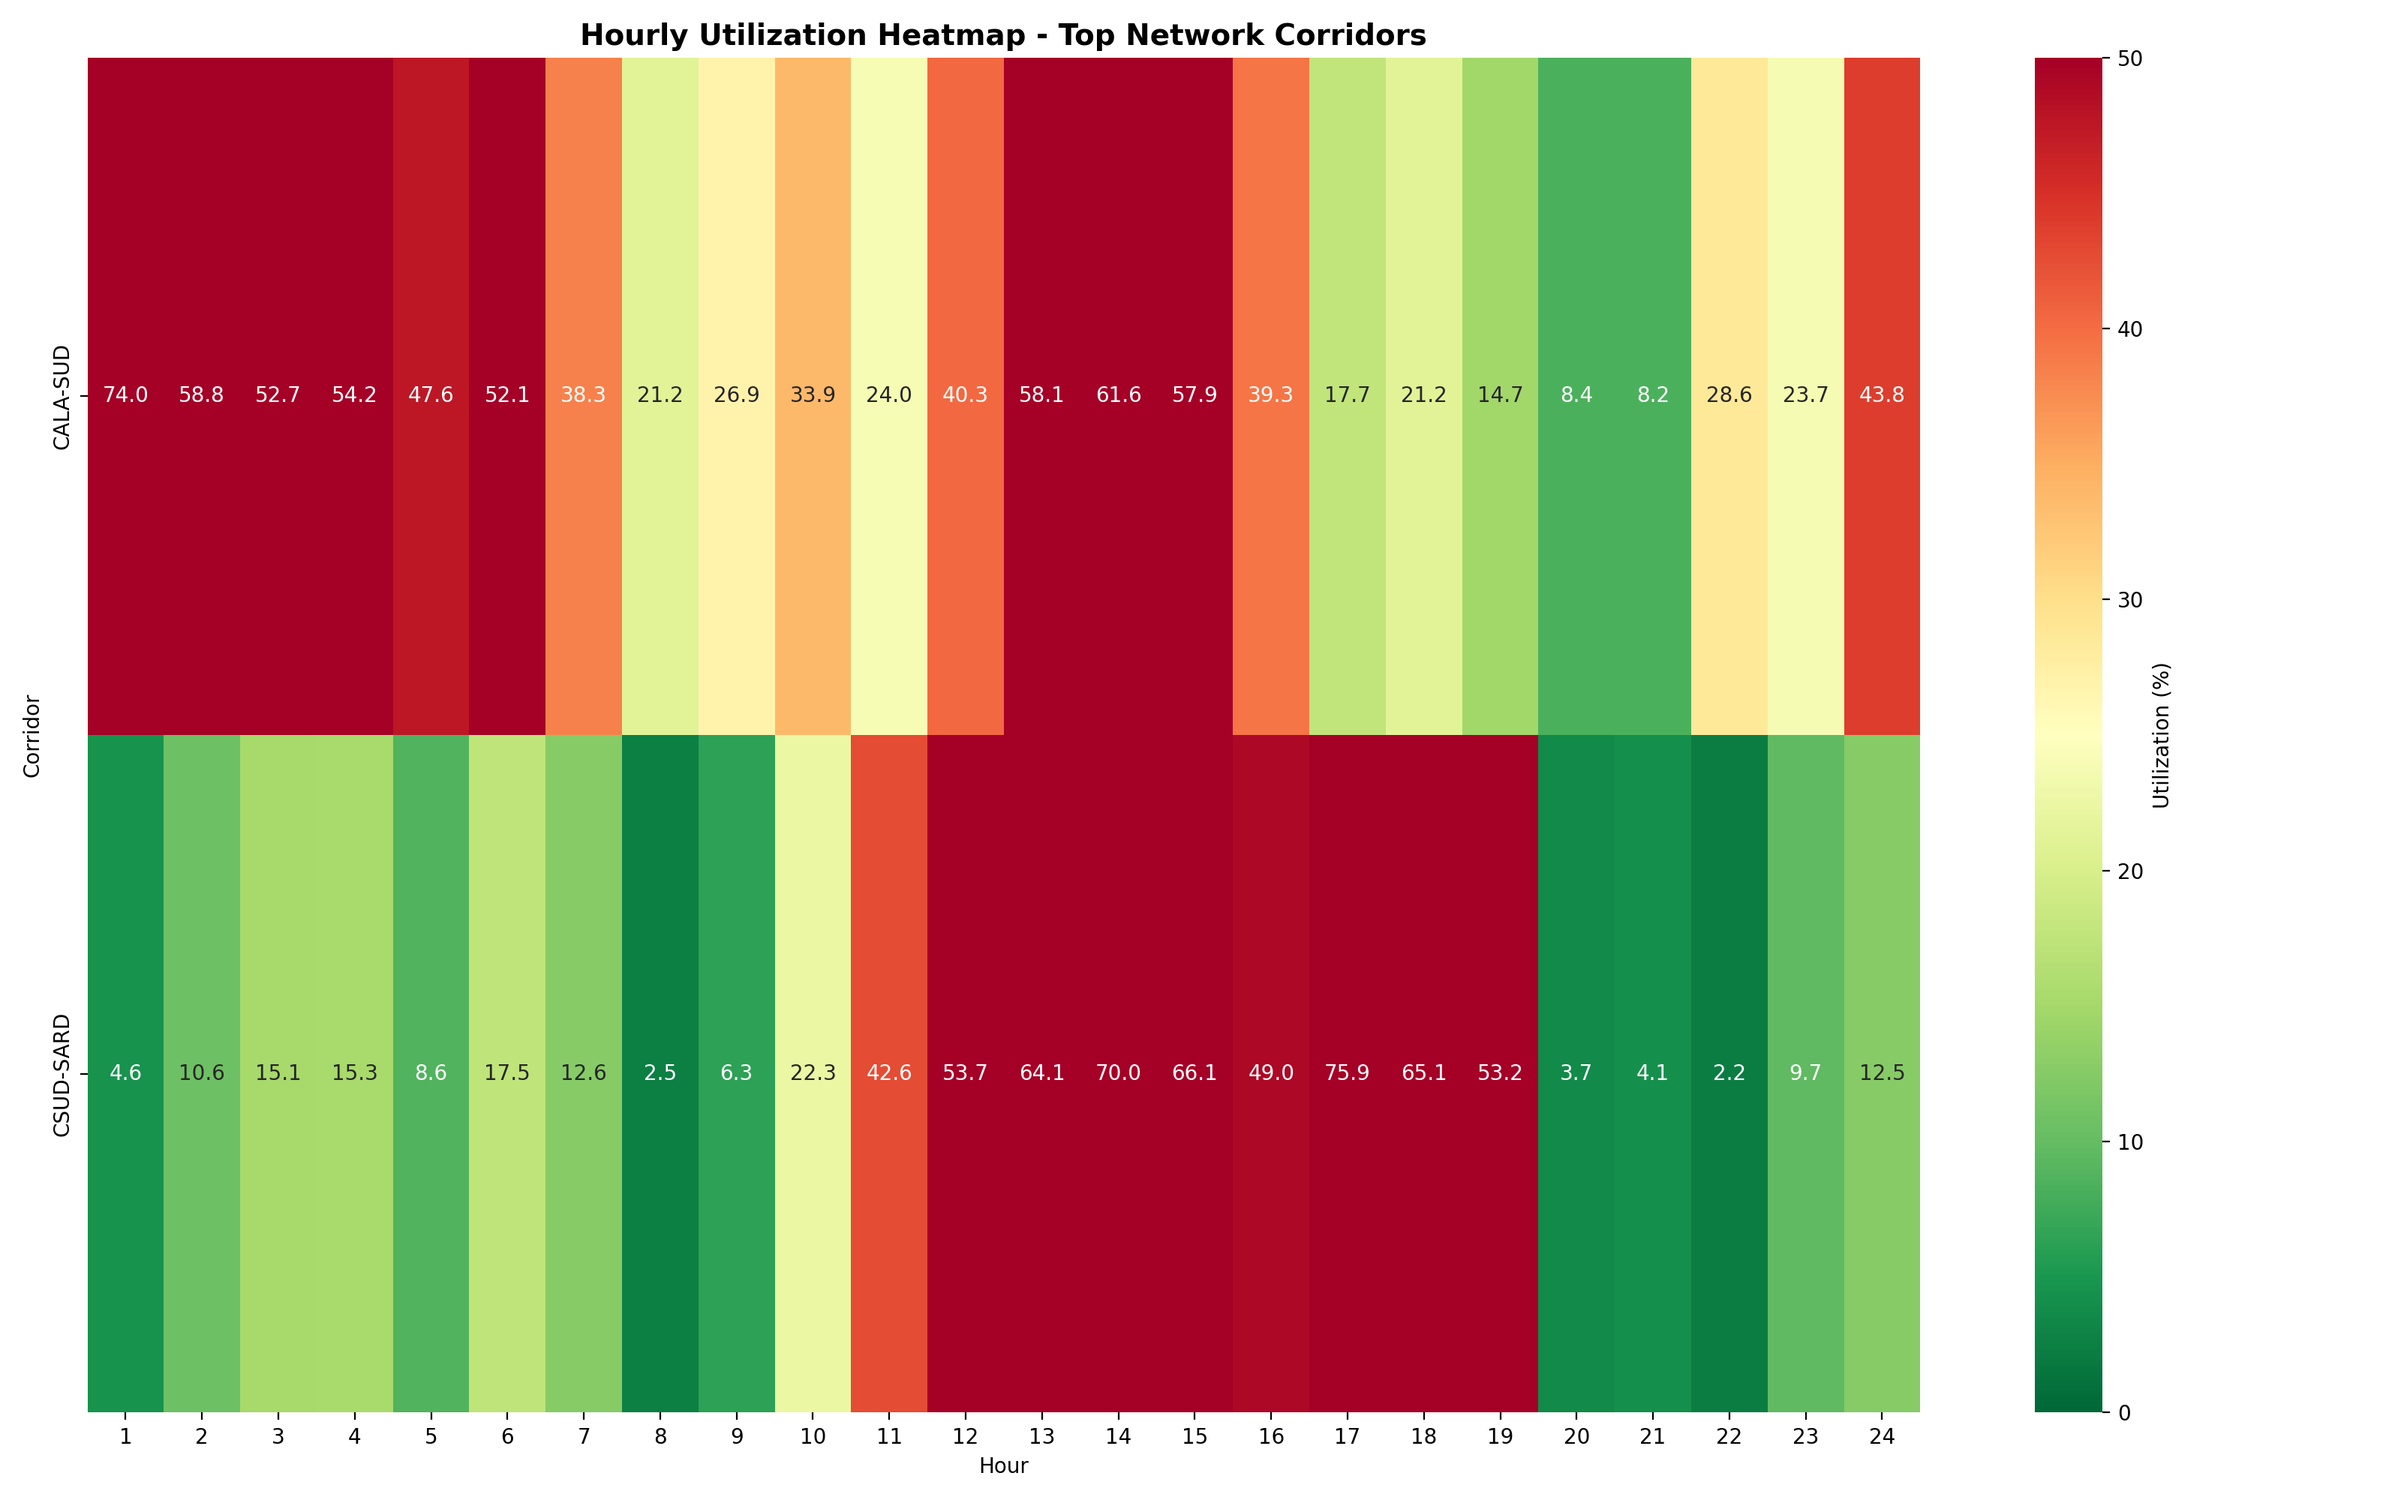
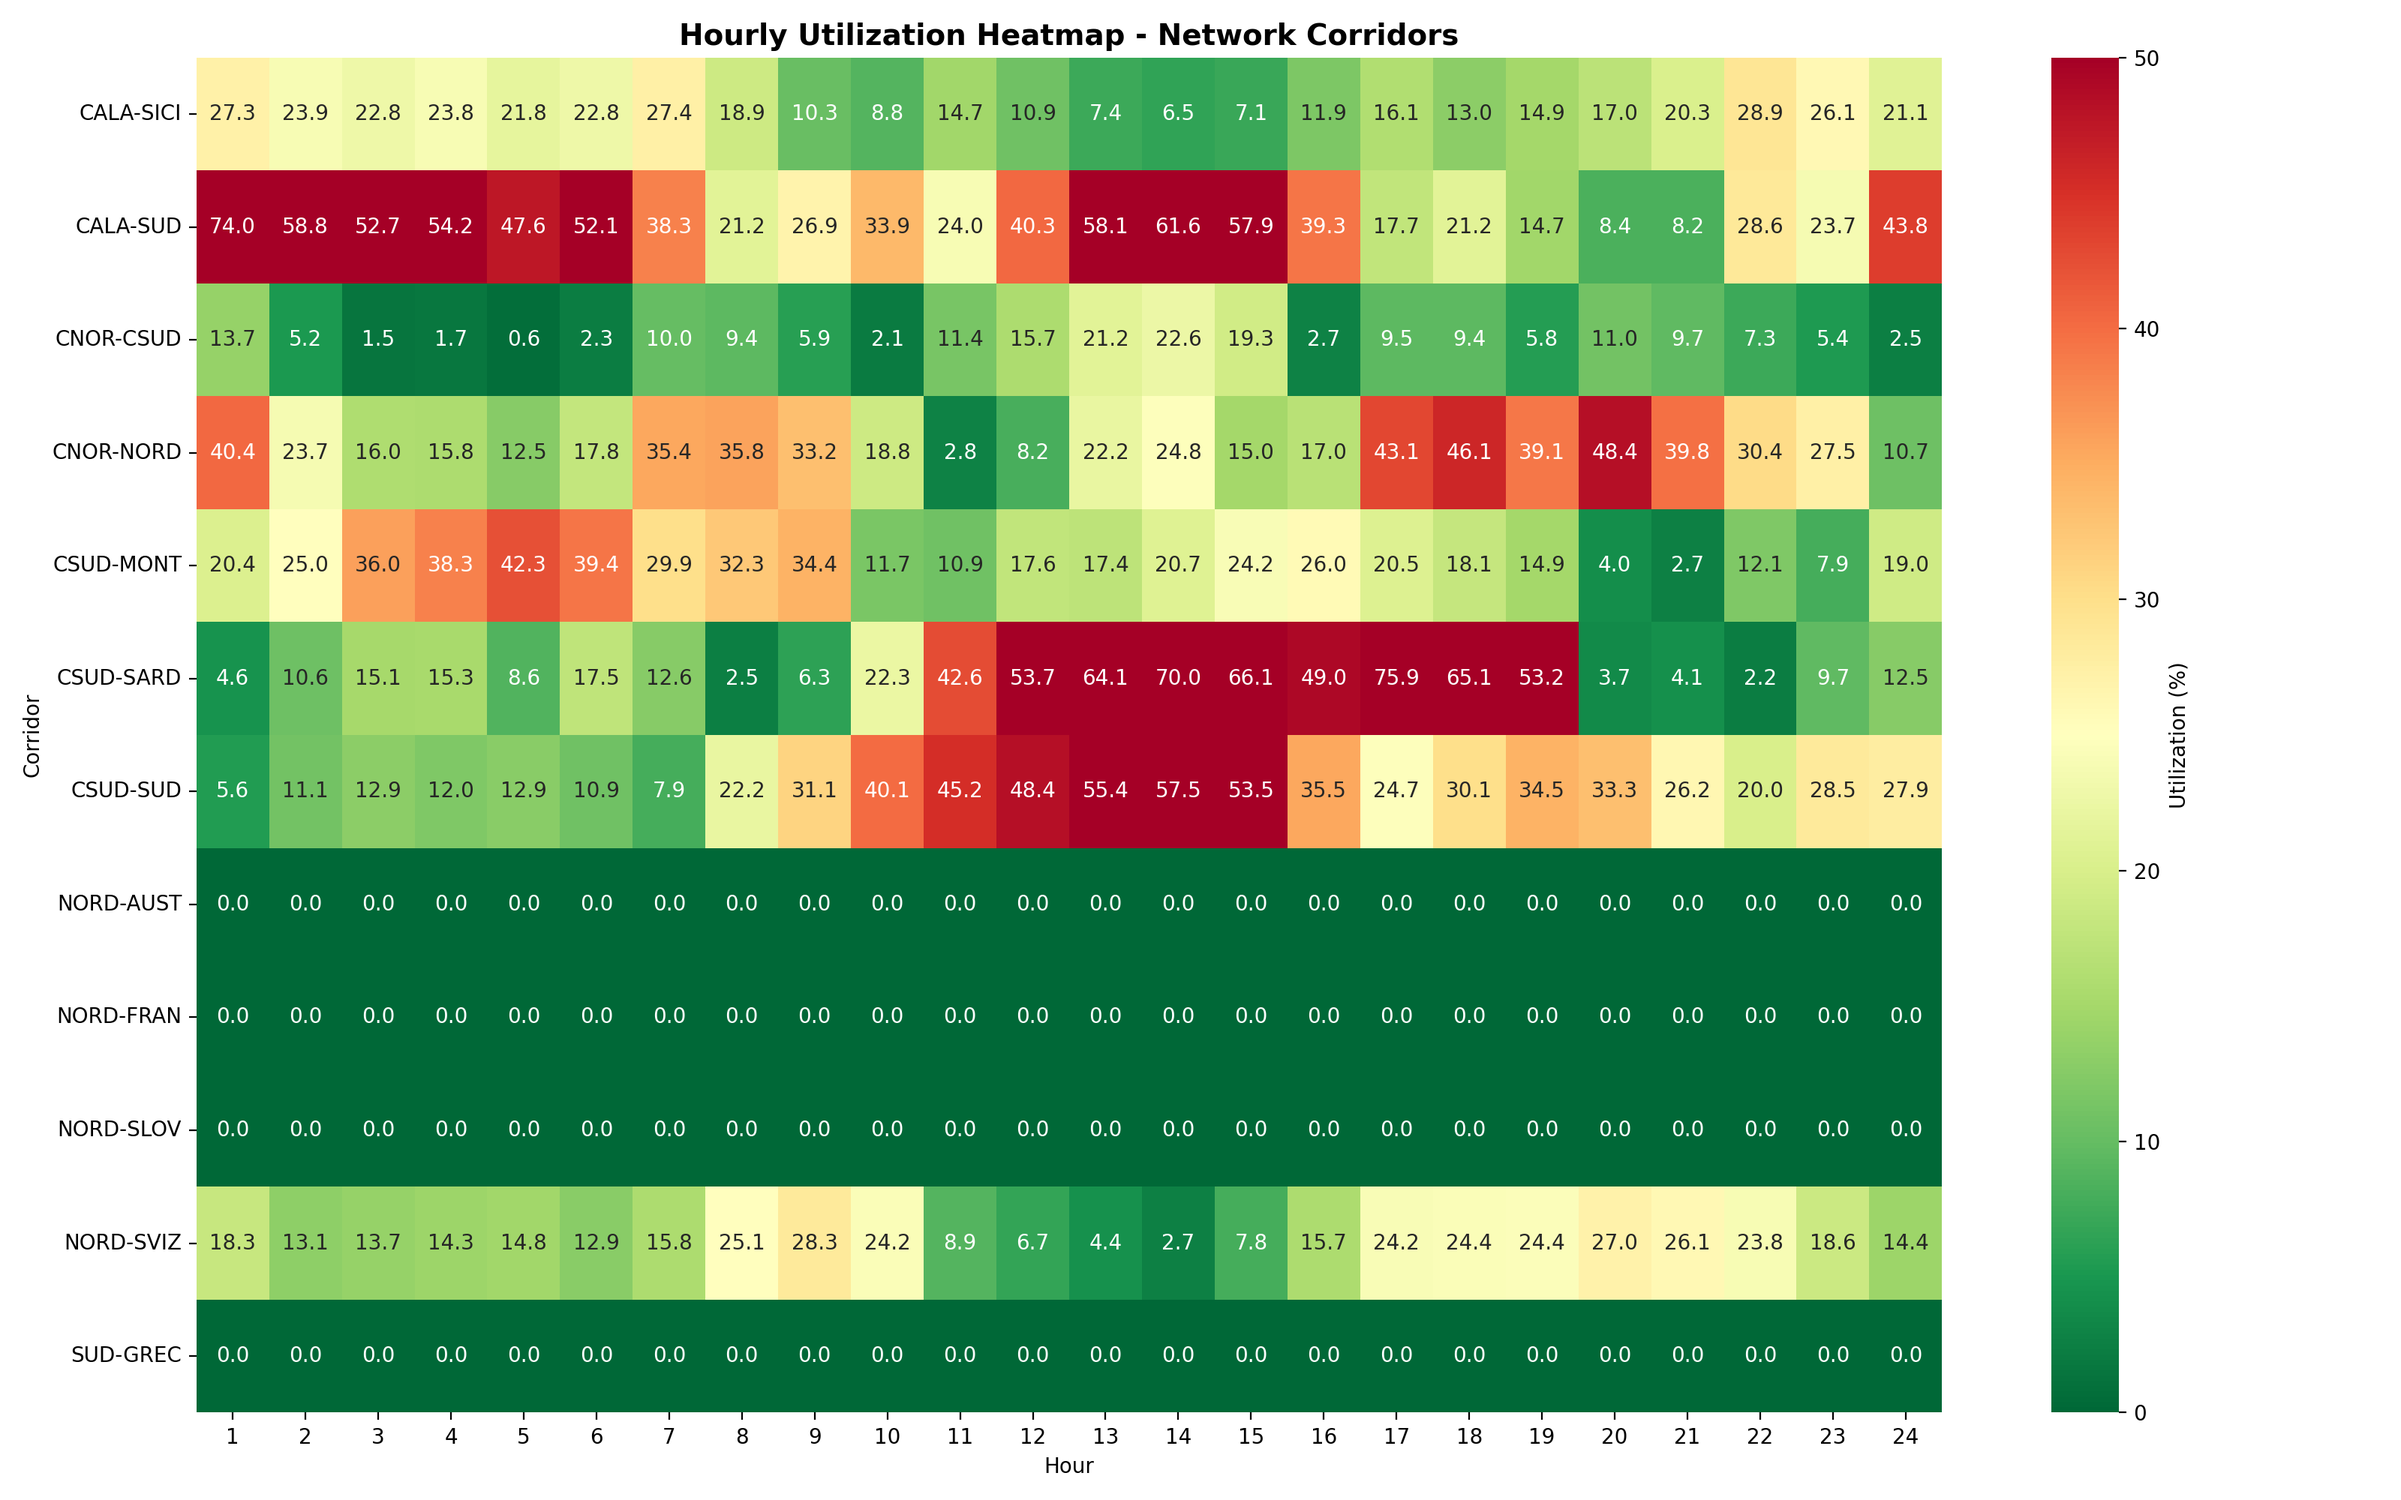
Fix: Analyze only network corridors, not external borders
Key findings:
- Morning peak: CNOR-NORD 31%, CALA-SUD 30%, CSUD-SUD 25%
- Midday peak: CSUD-SARD 49%, CALA-SUD 42%, CSUD-SUD 32%
- South->North flows increase during solar peak
- All visualizations now show network corridors only

diff --git a/analyze_congestion.py b/analyze_congestion.py
@@ -56,23 +56,35 @@ def analyze_congestion(flow_csv, price_csv, output_dir='analysis'):
     
     Path(output_dir).mkdir(exist_ok=True)
     
-    # Analysis 1: Top congested corridors
-    print("\n1. TOP CONGESTED CORRIDORS (Average Utilization)")
-    avg_util = flows_df.groupby('corridor')['utilization'].mean().sort_values(ascending=False).head(10)
+    # Filter to ONLY network corridors (exclude external borders)
+    network_corridors = set()
+    for idx, row in network.lines.iterrows():
+        network_corridors.add(f"{row.bus0}-{row.bus1}")
+        network_corridors.add(f"{row.bus1}-{row.bus0}")  # bidirectional
+    
+    # Filter flows to network corridors only
+    network_flows = flows_df[flows_df['corridor'].isin(network_corridors)].copy()
+    
+    print(f"\nFiltered to {len(network_corridors)} network corridors:")
+    print(f"  Total flow records: {len(flows_df)} → {len(network_flows)} (network only)")
+    
+    # Analysis 1: Top congested NETWORK corridors
+    print("\n1. TOP CONGESTED NETWORK CORRIDORS (Average Utilization)")
+    avg_util = network_flows.groupby('corridor')['utilization'].mean().sort_values(ascending=False).head(15)
     print(avg_util.to_string())
     
-    # Analysis 2: Morning vs Midday pattern
+    # Analysis 2: Morning vs Midday pattern (NETWORK CORRIDORS ONLY)
     print("\n2. MORNING (07:00-10:00) vs MIDDAY (12:00-15:00) PATTERN")
     
-    morning_flows = flows_df[flows_df['hour'].between(7, 10)]
-    midday_flows = flows_df[flows_df['hour'].between(12, 15)]
+    morning_flows = network_flows[network_flows['hour'].between(7, 10)]
+    midday_flows = network_flows[network_flows['hour'].between(12, 15)]
     
-    print("\nMorning peak - Top 5 congested:")
-    morning_top = morning_flows.groupby('corridor')['utilization'].mean().sort_values(ascending=False).head(5)
+    print("\nMorning peak - Top 10 congested:")
+    morning_top = morning_flows.groupby('corridor')['utilization'].mean().sort_values(ascending=False).head(10)
     print(morning_top.to_string())
     
-    print("\nMidday solar peak - Top 5 congested:")
-    midday_top = midday_flows.groupby('corridor')['utilization'].mean().sort_values(ascending=False).head(5)
+    print("\nMidday solar peak - Top 10 congested:")
+    midday_top = midday_flows.groupby('corridor')['utilization'].mean().sort_values(ascending=False).head(10)
     print(midday_top.to_string())
     
     # Analysis 3: North vs South flow direction
@@ -101,31 +113,28 @@ def analyze_congestion(flow_csv, price_csv, output_dir='analysis'):
     # Visualization 1: Heatmap of utilization by hour and corridor
     print("\n4. GENERATING VISUALIZATIONS...")
     
-    pivot_util = flows_df.pivot_table(
+    pivot_util = network_flows.pivot_table(
         values='utilization',
         index='corridor',
         columns='hour',
         aggfunc='mean'
     )
     
-    # Filter to only finite utilization corridors (exclude external borders with inf)
-    avg_util_finite = avg_util[avg_util < float('inf')]
-    if len(avg_util_finite) > 0:
-        top_corridors = avg_util_finite.head(15).index
+    # Show all network corridors (no need to filter, already filtered)
+    if len(avg_util) > 0:
+        top_corridors = avg_util.head(15).index
         pivot_top = pivot_util.loc[pivot_util.index.intersection(top_corridors)]
         
         fig, ax = plt.subplots(figsize=(16, 10))
         sns.heatmap(pivot_top, cmap='RdYlGn_r', center=25, vmin=0, vmax=50,
                     annot=True, fmt='.1f', cbar_kws={'label': 'Utilization (%)'})
-        plt.title('Hourly Utilization Heatmap - Top Network Corridors', fontsize=14, fontweight='bold')
+        plt.title('Hourly Utilization Heatmap - Network Corridors', fontsize=14, fontweight='bold')
         plt.xlabel('Hour')
         plt.ylabel('Corridor')
         plt.tight_layout()
         plt.savefig(f'{output_dir}/congestion_heatmap.png', dpi=200)
         print(f"  Saved: {output_dir}/congestion_heatmap.png")
         plt.close()
-    else:
-        print("  Skipping heatmap - no finite utilization data")
     
     # Visualization 2: Morning vs midday comparison
     # Filter out corridors with inf utilization (capacity = 0)
